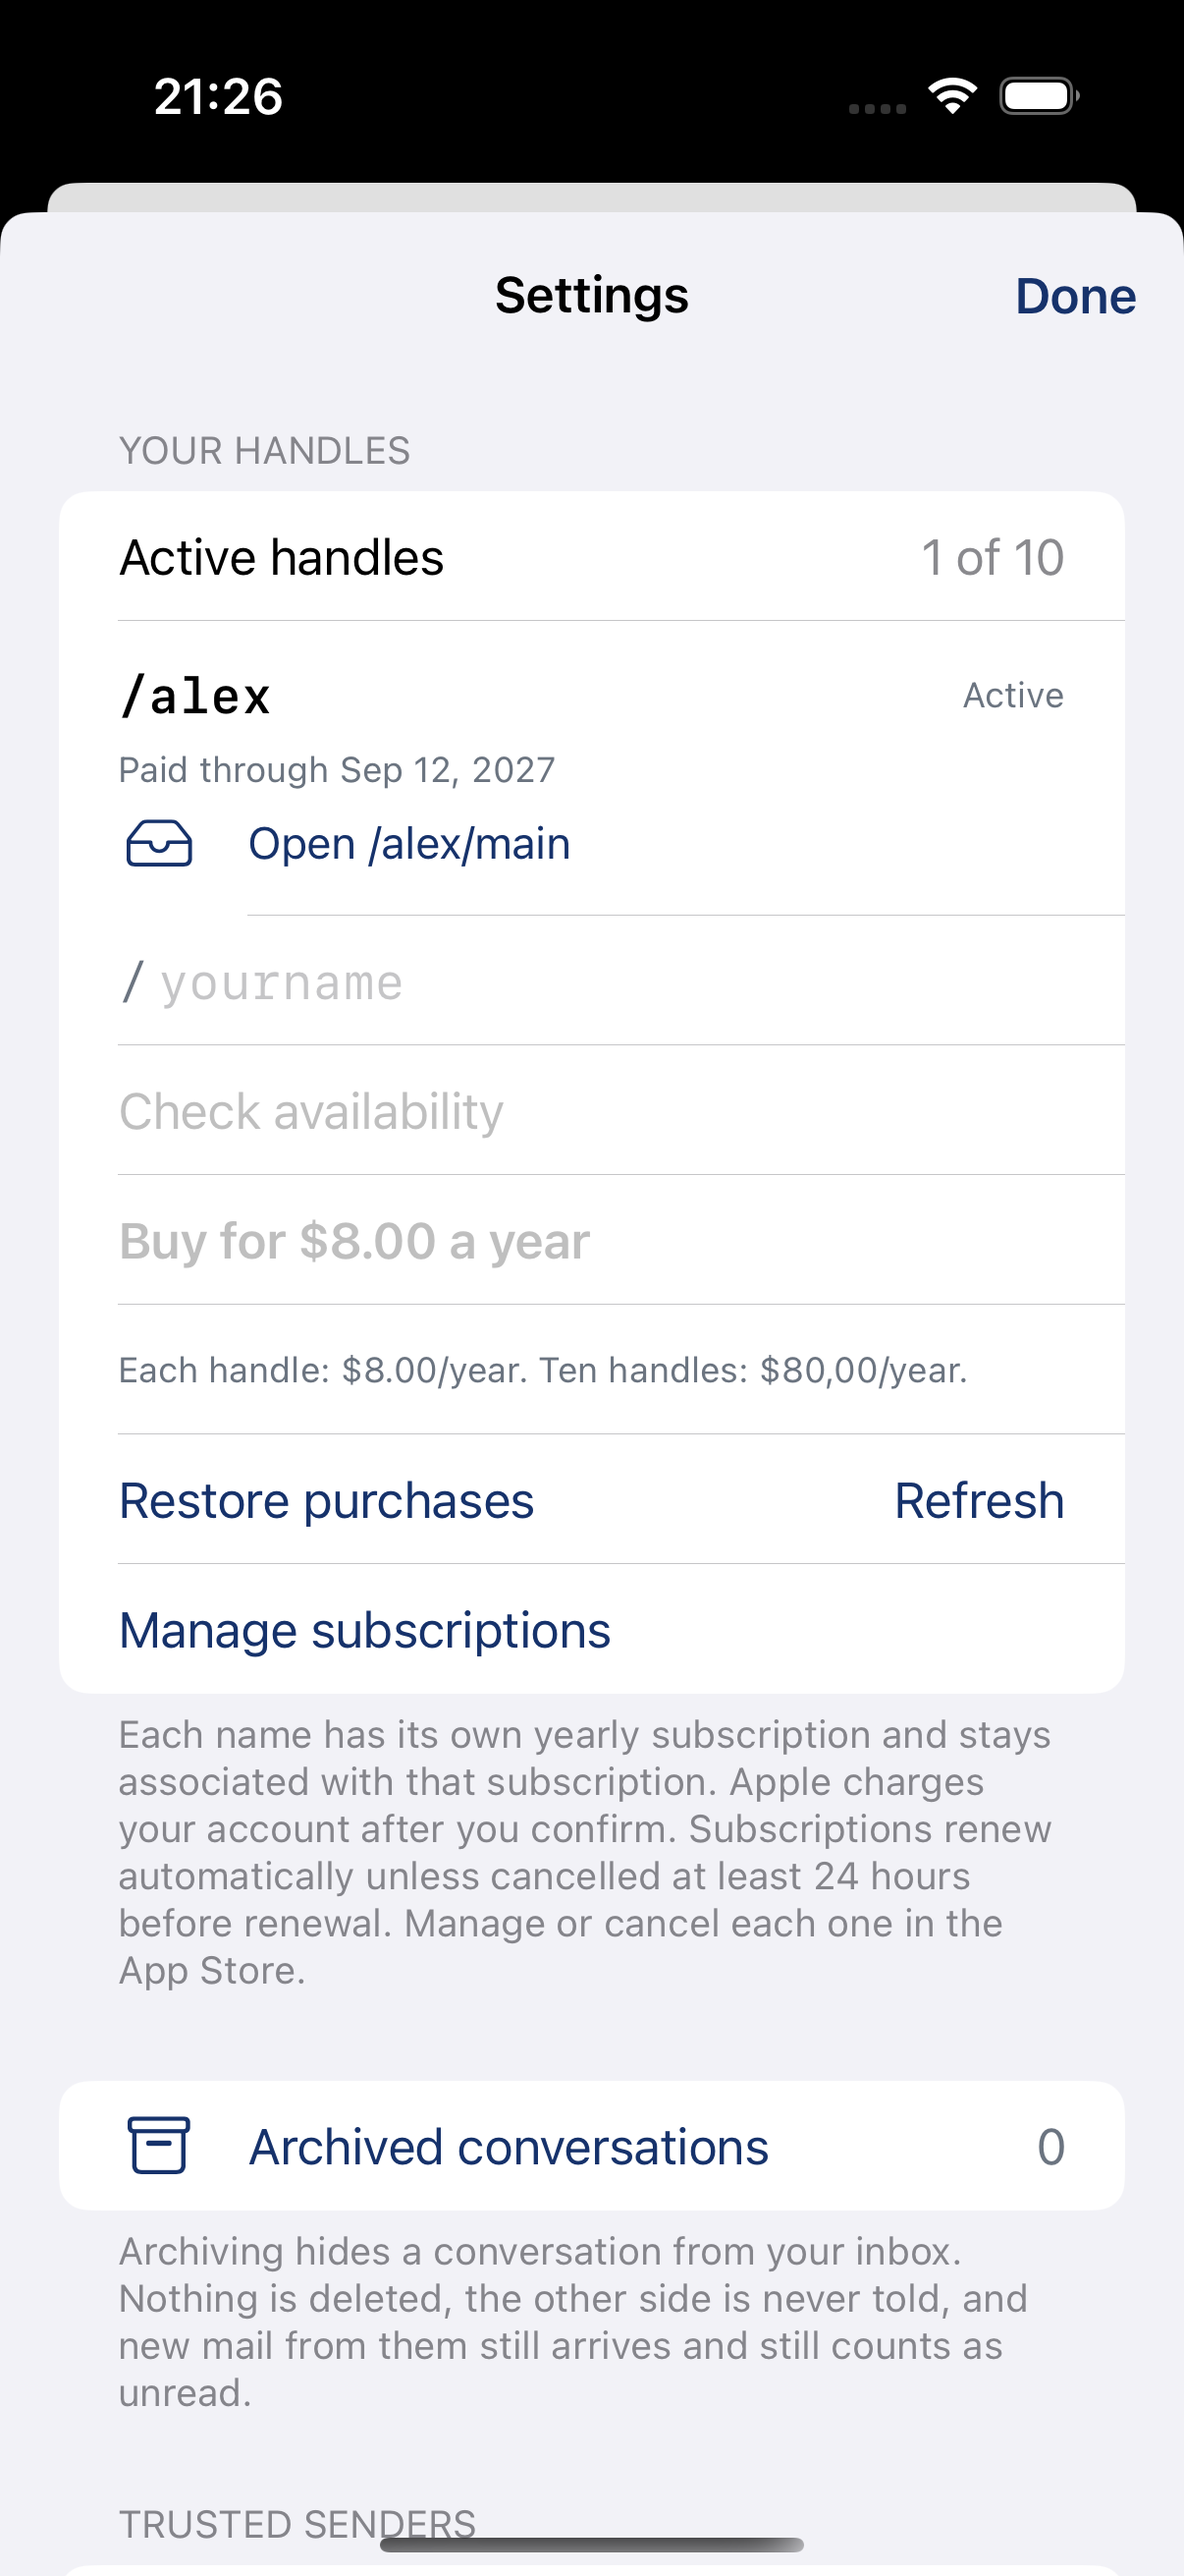
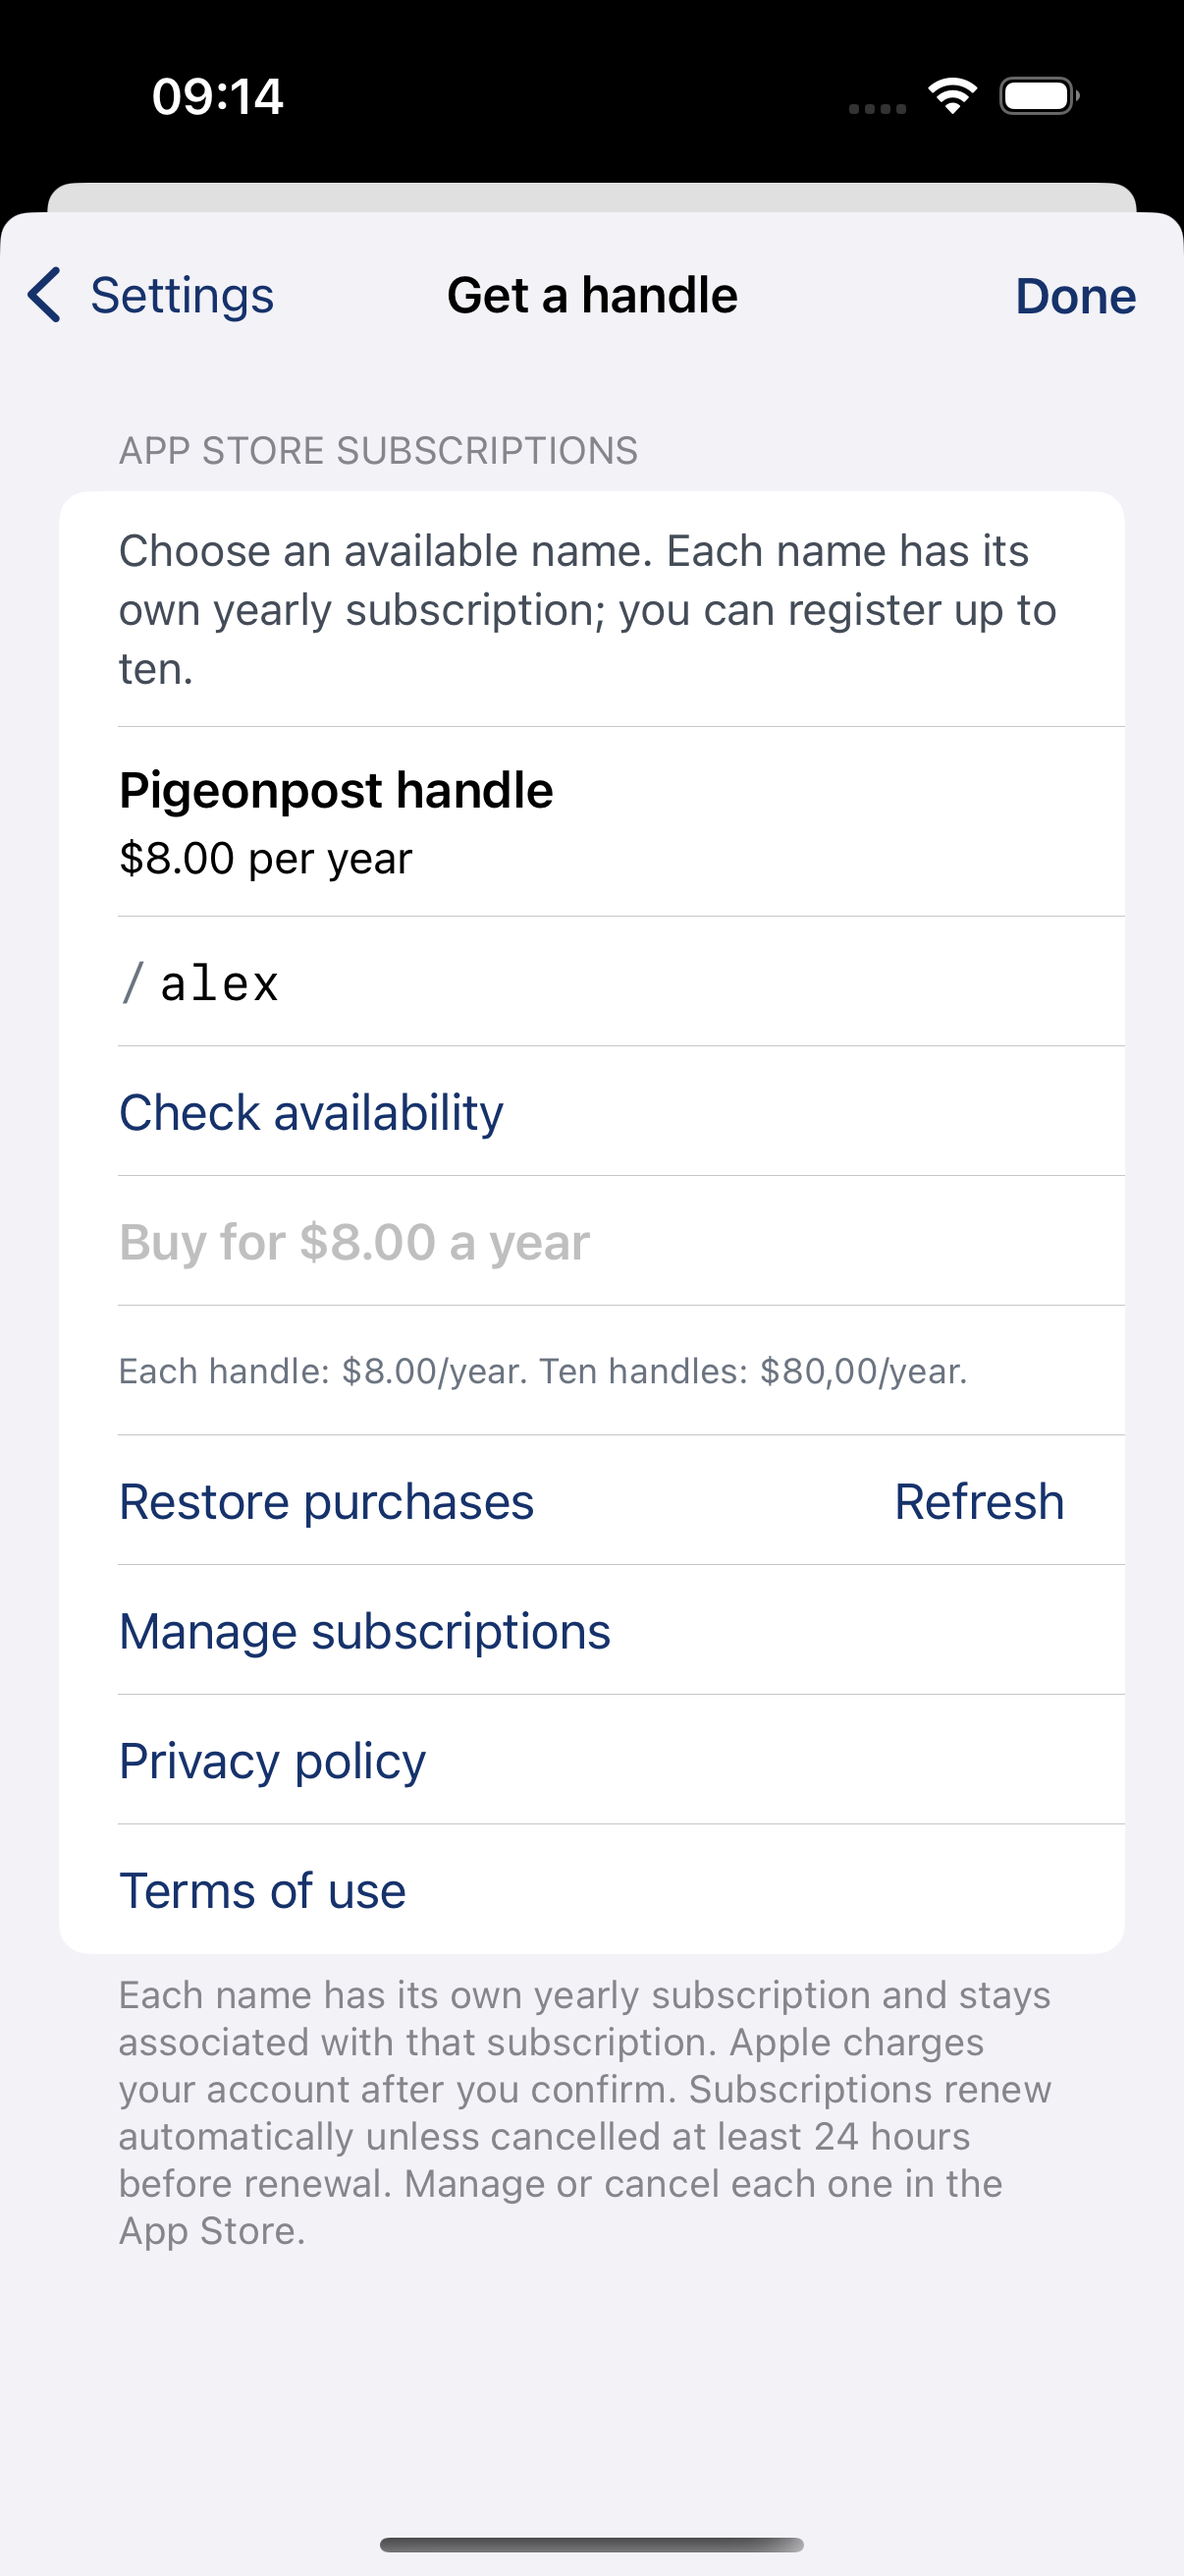
Make iOS handle purchases easy to find for App Review

diff --git a/apps/ios/Shared/Views/BuyHandleSection.swift b/apps/ios/Shared/Views/BuyHandleSection.swift
@@ -8,8 +8,12 @@ struct BuyHandleSection: View {
     var body: some View {
         @Bindable var store = store
         Section {
+            #if os(iOS)
+            Text("Choose an available name. Each name has its own yearly subscription; you can register up to ten.")
+                .font(.subheadline).foregroundStyle(Theme.body)
+            #endif
             if !store.loaded && store.activity == .loading {
-                progress("Checking your handles…")
+                progress("Loading handle subscriptions…")
             }
             #if !os(iOS)
             if store.loaded {
@@ -53,6 +57,16 @@ struct BuyHandleSection: View {
             #endif
 
             if store.enabled && (store.activeCount < store.maximum || !store.unassigned.isEmpty) {
+                #if os(iOS)
+                if let product = store.nextProduct, store.unassigned.isEmpty {
+                    VStack(alignment: .leading, spacing: 4) {
+                        Text(product.displayName ?? "Yearly handle subscription")
+                            .font(.headline).accessibilityIdentifier("handle-product-name")
+                        Text("\(product.displayPrice) per year")
+                            .font(.subheadline).accessibilityIdentifier("handle-product-price")
+                    }
+                }
+                #endif
                 HStack(spacing: 3) {
                     Text("/").font(.system(.body, design: .monospaced)).foregroundStyle(Theme.muted)
                     TextField("yourname", text: $store.wantedName)
@@ -77,13 +91,17 @@ struct BuyHandleSection: View {
                 } label: {
                     if !store.unassigned.isEmpty {
                         Text("Finish registration — no further payment")
+                    } else if let product = store.nextProduct {
+                        Text("Buy for \(product.displayPrice) a year")
+                    } else if store.busy {
+                        Text("Loading subscription price…")
                     } else {
-                        Text("Buy for \(store.nextProduct?.displayPrice ?? store.products.first?.displayPrice ?? "…") a year")
+                        Text("Subscription unavailable")
                     }
                 }
                 .font(.system(.body).weight(.semibold))
                 .disabled(!store.canBuy)
-                if let product = store.nextProduct ?? store.products.first, store.unassigned.isEmpty {
+                if let product = store.nextProduct, store.unassigned.isEmpty {
                     Text("Each handle: \(product.displayPrice)/year. Ten handles: \(product.total(for: 10))/year.")
                         .font(.caption).foregroundStyle(Theme.muted)
                 }
@@ -98,6 +116,10 @@ struct BuyHandleSection: View {
             if let message = store.message {
                 Text(message).font(.subheadline).foregroundStyle(Theme.body)
                     .accessibilityIdentifier("handle-message")
+            }
+            if store.products.isEmpty && !store.busy {
+                Button("Retry loading subscriptions") { Task { await store.refresh() } }
+                    .accessibilityIdentifier("handle-retry-products")
             }
             HStack {
                 Button("Restore purchases") { Task { await store.refresh(restoring: true) } }

diff --git a/apps/ios/UITests/PPUITests/HandlePurchaseTests.swift b/apps/ios/UITests/PPUITests/HandlePurchaseTests.swift
@@ -24,6 +24,32 @@ final class HandlePurchaseTests: XCTestCase {
         add(attachment)
     }
 
+    func testPurchasePageIsDirectlyAvailableFromSettings() {
+        app.launchArguments = ["-fixtures", "-sheet=settings", "-handle=sale"]
+        app.launch()
+        let purchasePage = app.buttons["settings-purchases"]
+        expectation(for: NSPredicate(format: "enabled == true"), evaluatedWith: purchasePage)
+        waitForExpectations(timeout: 8)
+        purchasePage.tap()
+        XCTAssertTrue(app.textFields["yourname"].waitForExistence(timeout: 8))
+        XCTAssertEqual(app.staticTexts["handle-product-name"].label, "Pigeonpost handle")
+        XCTAssertEqual(app.staticTexts["handle-product-price"].label, "$8.00 per year")
+        XCTAssertTrue(app.buttons["Buy for $8.00 a year"].exists)
+        screenshot("direct-handle-purchase")
+    }
+
+    func testUnavailableCatalogOffersRetryWithoutInventingAPrice() {
+        open("soon")
+        XCTAssertTrue(app.buttons["handle-retry-products"].waitForExistence(timeout: 8))
+        XCTAssertTrue(app.buttons["Subscription unavailable"].exists)
+        XCTAssertFalse(app.buttons["Subscription unavailable"].isEnabled)
+        XCTAssertFalse(app.staticTexts["handle-product-price"].exists)
+        XCTAssertFalse(app.buttons.matching(NSPredicate(format: "label BEGINSWITH 'Buy for'")).firstMatch.exists)
+        app.buttons["handle-retry-products"].tap()
+        XCTAssertTrue(app.buttons["handle-retry-products"].waitForExistence(timeout: 8))
+        screenshot("subscription-retry")
+    }
+
     private func expectPastedAddress(_ address: String) {
         app.buttons["New conversation"].tap()
         let field = app.textFields["/bekir/agent1 or /k/…"]
@@ -128,6 +154,7 @@ final class HandlePurchaseTests: XCTestCase {
         XCTAssertFalse(app.staticTexts["Active App Store subscriptions"].exists)
         XCTAssertTrue(app.textFields["yourname"].waitForExistence(timeout: 8),
                       "An existing owner needs a way to add another handle")
+        XCTAssertEqual(app.staticTexts["handle-product-name"].label, "Handle 2 — yearly")
     }
 
     private var buy: XCUIElement {

diff --git a/apps/ios/Shared/Debug/HandleFixtures.swift b/apps/ios/Shared/Debug/HandleFixtures.swift
@@ -82,7 +82,10 @@ private final class FixtureHandlePurchases: HandlePurchasing {
     init(state: String) { self.state = state }
     func products(_ ids: [String]) async throws -> [HandleProduct] {
         if state == "soon" { return [] }
-        return ids.map { HandleProduct(id: $0, displayPrice: "$8.00", price: 8, currencyCode: "USD") }
+        return ids.enumerated().map { index, id in
+            HandleProduct(id: id, displayPrice: "$8.00", price: 8, currencyCode: "USD",
+                          displayName: index == 0 ? "Pigeonpost handle" : "Handle \(index + 1) — yearly")
+        }
     }
     func purchase(_ id: String, accountToken: UUID) async throws -> HandlePurchaseResult {
         if state == "cancelled" { return .cancelled }

diff --git a/apps/ios/Shared/Views/SettingsSheet.swift b/apps/ios/Shared/Views/SettingsSheet.swift
@@ -53,6 +53,10 @@ struct SettingsSheet: View {
                     #endif
                 }
                 Section {
+                    #if os(iOS)
+                    destination(.purchases, icon: "plus.circle", detail: "Choose a name · yearly App Store subscription")
+                        .disabled(handle == nil)
+                    #endif
                     destination(.handles, icon: "at", detail: handle == nil ? "Loading your handles…" : "Your names and subscriptions")
                         .disabled(handle == nil)
                     destination(.inbox, icon: "tray", detail: "Storage and archived conversations")

diff --git a/apps/ios/APP-STORE.md b/apps/ios/APP-STORE.md
@@ -1,17 +1,19 @@
 # Pigeonpost iOS public release
 
-Verified 14 September 2026 against the submitted build, App Store Connect and production.
+Review remediation audited 21 September 2026 against App Store Connect and production.
 
 ## Submission and purchases
 
 - App: **Pigeonpost Inbox**, App Store Connect ID `6803521541`.
 - Bundle: `dev.pigeonpost.inbox`; team: `AH277897AV`. Preserve both identifiers.
-- Public version **1.0, build 40**, submission `4cb9aa78-b600-42be-bd7a-e83322a131f2`: **Waiting for Review**, with release after approval. This is the public App Store submission.
+- Public version **1.0, build 41**, submission `bd53e886-70a2-47e4-af63-565e965b2927`: **Rejected / Unresolved Issues** under guideline 2.1(b). Apple could not locate the handle subscriptions and requires a successful sandbox purchase recording captured on a physical device before resubmission.
 - All ten annual handle subscriptions and their groups are included in that submission. The first product is `dev.pigeonpost.inbox.handle.yearly`; the others are `dev.pigeonpost.inbox.handle2.yearly` through `dev.pigeonpost.inbox.handle10.yearly`. Each purchases a separate name, at USD 8/year in the US, USD 80/year for ten. Local storefront prices apply.
-- The purchase screen is **Settings → Handles → Get a handle**. It displays the local price, annual term, automatic renewal and cancellation information, plus Restore purchases, Manage subscriptions, privacy and terms. An owned, unassigned purchase uses **Finish registration** without another charge.
+- The revised purchase screen is directly in **Settings → Get a handle**, also accessible through **Settings → Handles → Get a handle**. It displays Apple's product name and local price, annual term, automatic renewal and cancellation information, plus Restore purchases, Manage subscriptions, privacy and terms. An owned, unassigned purchase uses **Finish registration** without another charge. If the catalog is unavailable, the app offers a retry and does not invent a purchase price.
 - The basic cryptographic mailbox remains available without buying a readable handle.
 
-The SDK 26 signed build completed in [GitHub Actions run 34841034053](https://github.com/bekirdag/pigeonpost/actions/runs/34841034053). Native model and purchase-controller checks passed. The optional scanner is directly in Settings. Default inbox labels distinguish namespaces, and new conversations supply the leading slash.
+All ten products have the correct annual term, USD 8/year US price and availability in 175 territories. The live reviewer account can sign in, load account handles and retrieve all ten product IDs. The older individual product review notes referenced the obsolete “Your handles” settings route; update them with the direct route alongside the new binary. These checks establish catalog and account health, but do not prove a sandbox purchase succeeds on a physical device.
+
+The optional scanner is directly in Settings. Default inbox labels distinguish namespaces, and new conversations supply the leading slash.
 
 ## Reviewer access
 
@@ -47,7 +49,9 @@ The audit used [Apple's current App Review Guidelines](https://developer.apple.c
 
 ## Remaining verification and the next release
 
-Apple's EU trader verification is pending a user verification code. Separately, Apple's locked company record incorrectly lists Alabama in Wodo's Eskişehir, Türkiye address. Correct the company record before attesting to the trader address. Submission acceptance does not complete that verification.
+Wodo's Paid Apps Agreement, banking, tax forms and EU trader status were all active in App Store Connect on 21 September. Separately, Apple's company record still lists an incorrect Alabama region in Wodo's Türkiye address; correcting that record is outside this purchase-flow remediation.
+
+Before resubmitting, attach a recording captured on a physical iPhone or iPad that starts at the Home Screen, launches the new TestFlight build, uses the supplied review account, demonstrates the core messaging features and completes a sandbox handle purchase. Show access to additional purchases and restoration as well. Simulator screenshots and StoreKit configuration tests are supporting evidence only. Preserve the app version, ten subscription versions and ten subscription-group versions in the public review submission.
 
 Physical-device APNs delivery was not reverified in this audit. No APNs errors appeared in the current postbox container's logs, which alone does not prove delivery. Validate production notification receipt and opening the correct conversation on a real iPhone before claiming that check passed.
 

diff --git a/apps/ios/Store/handle-subscription-review.md b/apps/ios/Store/handle-subscription-review.md
@@ -1,0 +1,5 @@
+# Handle purchase review screenshot
+
+`handle-subscription-review.png` was captured on 21 September 2026 from the running native iOS app by `HandlePurchaseTests.testPurchasePageIsDirectlyAvailableFromSettings`. It shows the direct Settings → Get a handle route, product name, annual price, registration controls, restoration and subscription terms.
+
+The screenshot uses deterministic debug fixtures with fictional data. It is a UI reference for the subscription review metadata, not evidence of a successful sandbox purchase. Apple's September 20 rejection separately requires a recording from a physical device running the submitted build, using the review account and completing a real sandbox transaction.
